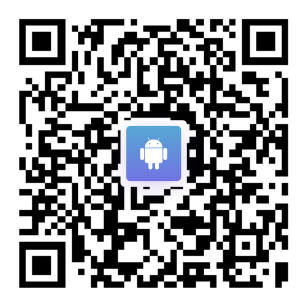
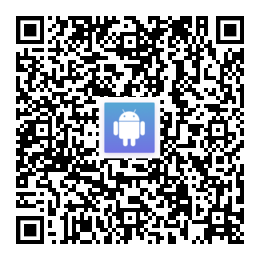
update apk link & apk qrcode

diff --git a/app-download.php b/app-download.php
@@ -27,7 +27,7 @@ get_header();
 															<div id="stores" class="app-store">
 																	<a href="https://apps.apple.com/ca/app/virgocx-buy-sell-bitcoin/id1480501048"><img class="app_store_download" data-value="app_store" src="<?= get_template_directory_uri() ?>/img/app_buttons/app_store.png" alt="images not found" /></a>
 																	<a href="https://play.google.com/store/apps/details?id=ca.virgocx.exchange"><img class="play_store_download" data-value="play_store" src="<?= get_template_directory_uri() ?>/img/app_buttons/play_store.png" alt="images not found" /></a>
-																	<a href="https://virgocx.s3.ca-central-1.amazonaws.com/prod/2021/09/10/c77346df6b7f41af834c6ebb594621ea.apk"><img class="android_download" data-value="android" src="<?= get_template_directory_uri() ?>/img/app_buttons/android.png" alt="images not found" /></a>
+																	<a href="https://virgocx.s3.ca-central-1.amazonaws.com/prod/2021/11/07/eae76c4f3c4145f6b9681f44aa5c92e9.apk"><img class="android_download" data-value="android" src="<?= get_template_directory_uri() ?>/img/app_buttons/android.png" alt="images not found" /></a>
 															</div>
 
 															<img id="app_qr_image" src="<?= get_template_directory_uri() ?>/img/qr_codes/app_store.png" alt="images not found" /></a>

diff --git a/template-parts/app-qr.php b/template-parts/app-qr.php
@@ -4,7 +4,7 @@
 		<div id="stores" class="col-lg-5 col-md-5 app-store">
 				<a href="https://apps.apple.com/ca/app/virgocx-buy-sell-bitcoin/id1480501048"><img class="app_store_download" data-value="app_store" src="<?= get_template_directory_uri() ?>/img/app_buttons/app_store.png" alt="images not found" /></a>
 				<a href="https://play.google.com/store/apps/details?id=ca.virgocx.exchange"><img class="play_store_download" data-value="play_store" src="<?= get_template_directory_uri() ?>/img/app_buttons/play_store.png" alt="images not found" /></a>
-				<a href="https://virgocx.s3.ca-central-1.amazonaws.com/prod/2021/09/10/c77346df6b7f41af834c6ebb594621ea.apk"><img class="android_download" data-value="android" src="<?= get_template_directory_uri() ?>/img/app_buttons/android.png" alt="images not found" /></a>
+				<a href="https://virgocx.s3.ca-central-1.amazonaws.com/prod/2021/11/07/eae76c4f3c4145f6b9681f44aa5c92e9.apk"><img class="android_download" data-value="android" src="<?= get_template_directory_uri() ?>/img/app_buttons/android.png" alt="images not found" /></a>
 		</div>
 
 		<img class="col-lg-5 col-md-7 col-sm-7" id="app_qr_image" src="<?= get_template_directory_uri() ?>/img/qr_codes/app_store.png" alt="images not found" /></a>

diff --git a/front-page.php b/front-page.php
@@ -730,7 +730,7 @@ if ($totalNumber === 1): ?>
                                         class="play_store_download" data-value="play_store"
                                         src="<?= get_template_directory_uri() ?>/img/app_buttons/play_store.png"
                                         alt="images not found"/></a>
-                            <a href="https://virgocx.s3.ca-central-1.amazonaws.com/prod/2021/09/10/c77346df6b7f41af834c6ebb594621ea.apk"><img
+                            <a href="https://virgocx.s3.ca-central-1.amazonaws.com/prod/2021/11/07/eae76c4f3c4145f6b9681f44aa5c92e9.apk"><img
                                         class="android_download" data-value="android"
                                         src="<?= get_template_directory_uri() ?>/img/app_buttons/android.png"
                                         alt="images not found"/></a>

diff --git a/footer-otc.php b/footer-otc.php
@@ -153,7 +153,7 @@
                             </li>
                             <li class="app-download">
                                 <a class="android"
-                                   href="https://virgocx.s3.ca-central-1.amazonaws.com/prod/2021/09/10/c77346df6b7f41af834c6ebb594621ea.apk"
+                                   href="https://virgocx.s3.ca-central-1.amazonaws.com/prod/2021/11/07/eae76c4f3c4145f6b9681f44aa5c92e9.apk"
                                    target="_blank">
                                     <div class="text">
                                         <span data-translate="footer_App_Android1"></span>

diff --git a/footer.php b/footer.php
@@ -135,7 +135,7 @@
 																	</a>
 															</li>
 															<li class="app-download">
-																	<a class="android" href="https://virgocx.s3.ca-central-1.amazonaws.com/prod/2021/09/10/c77346df6b7f41af834c6ebb594621ea.apk" target="_blank">
+																	<a class="android" href="https://virgocx.s3.ca-central-1.amazonaws.com/prod/2021/11/07/eae76c4f3c4145f6b9681f44aa5c92e9.apk" target="_blank">
 																		<div class="text">
 																			<span data-translate="footer_App_Android1"></span>
 																			<span class="highlight" data-translate="footer_App_Android2"></span>
